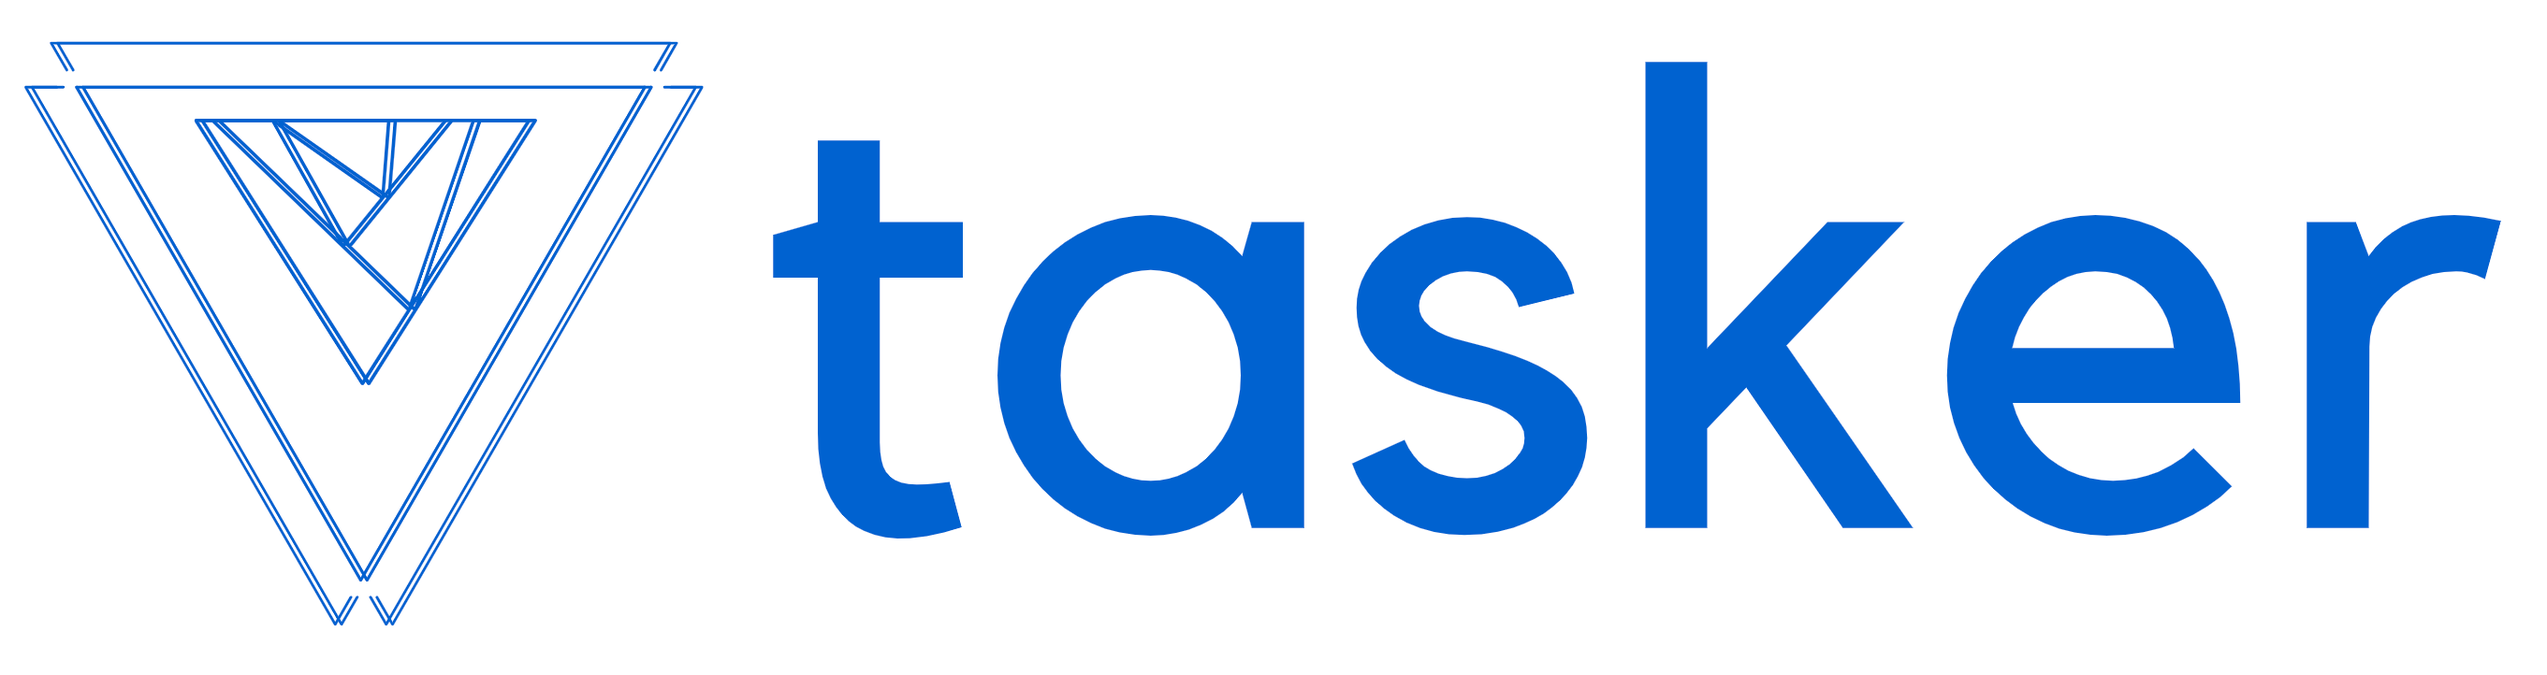
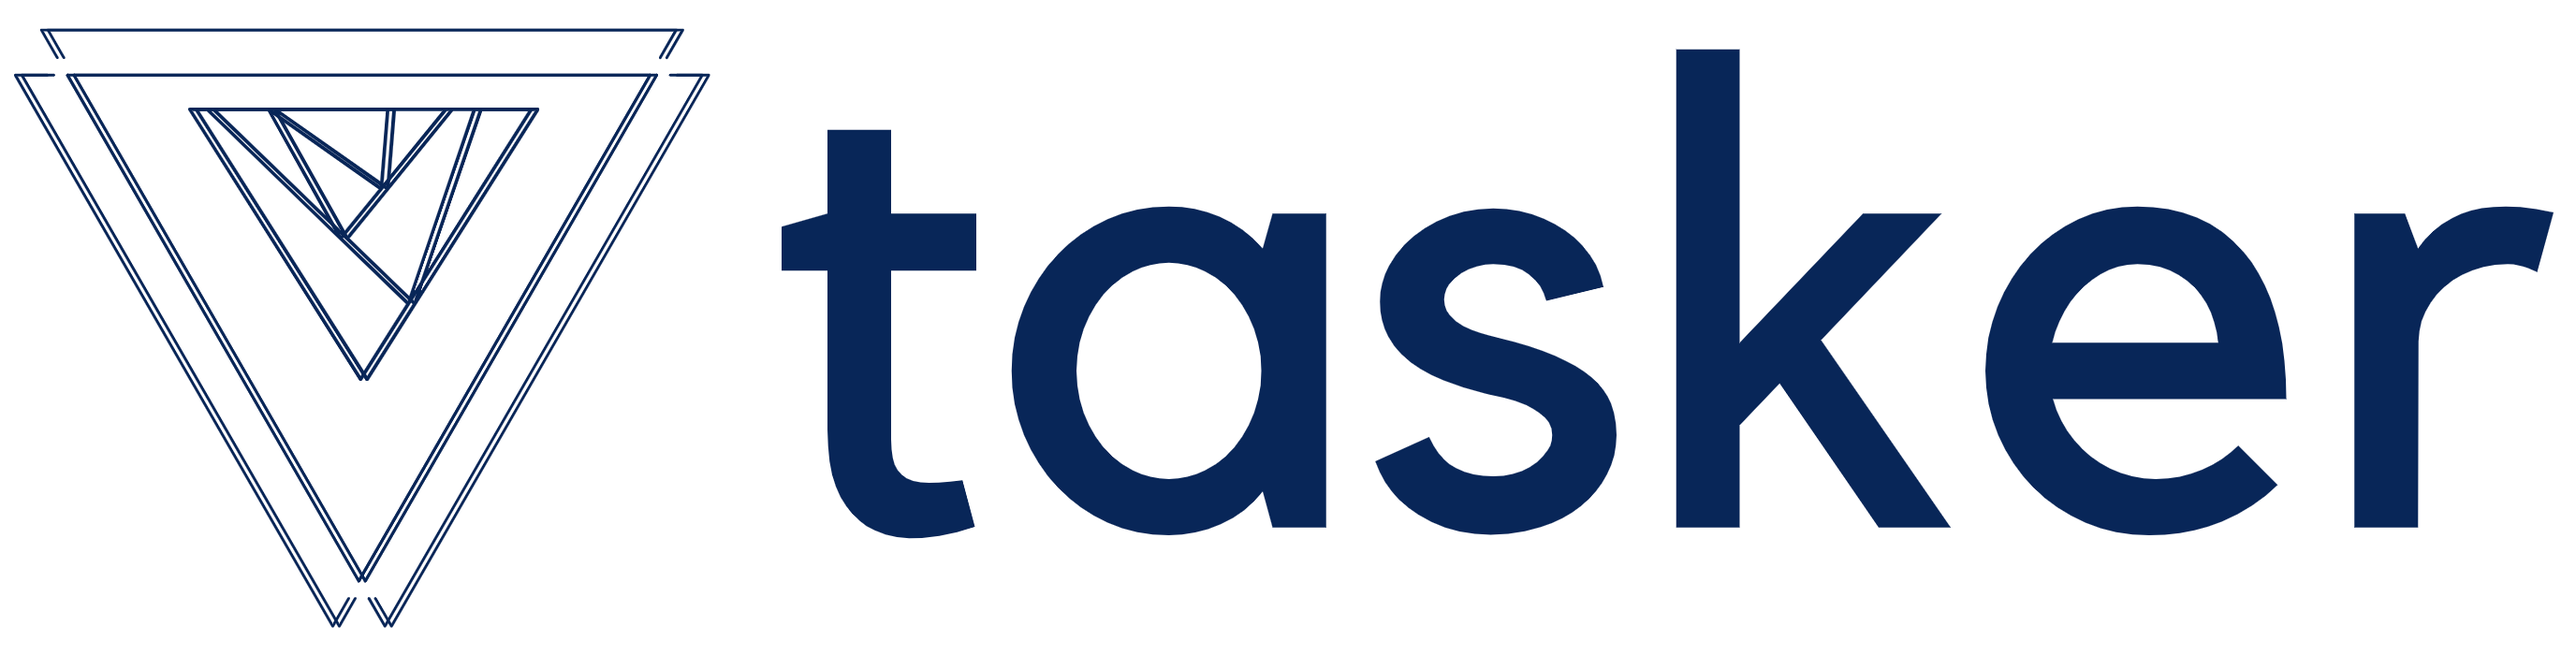
final blue for style and final white line for team member or manager view and more css

Changed region(s): [[0.281, 0.06, 0.9993, 0.84], [0.0, 0.03, 0.281, 0.96]]

diff --git a/src/containers/sidebar.css b/src/containers/sidebar.css
@@ -5,9 +5,9 @@
     height: 40px;
 }
 
-.logoDiv{
-    /* align-self: center; */
-}
+/* .logoDiv{
+   
+} */
 
 
 .sidebar-div{
@@ -18,7 +18,7 @@
     width: 20vw;
     flex-basis: auto;
     /* justify-content: space-evenly; */
-    background-color: #8FD5FF
+    background-color: #0A2659;
 }
 
 .sideBarManager{
@@ -37,7 +37,7 @@
 
 .managerViewDiv{
     margin-top: 27px;
-    background-color: #0F61D4;
+    /* background-color: #2C3E50; */
     padding-top: 20px;
     padding-bottom: 5px;
     display: flex;
@@ -45,11 +45,12 @@
     justify-content: center;
     align-items: center;
     color: white;
+    border-bottom: 1px white solid;
 }
 
 .memberViewDiv{
     margin-top: 60px;
-    background-color: #0F61D4;
+    /* background-color: #0F61D4; */
     padding-top: 20px;
     padding-bottom: 5px;
     display: flex;
@@ -57,6 +58,7 @@
     justify-content: center;
     align-items: center;
     color: white;
+    border-bottom: 1px white solid;
 }
 
 
@@ -67,7 +69,8 @@
     justify-content: center;
     align-items: center;
     padding: 20px;
-    color: #0F61D4;
+    color: white;
+
 }
 
 

diff --git a/src/components/createTask.css b/src/components/createTask.css
@@ -7,18 +7,51 @@
 }
 
 button.btn-light {
-    background-color: #0F61D4;
-    border-color: #0F61D4;
+    background-color: #002b80;
+    border-color: #002b80;
     color: white;
     font-size: medium;
 }
 
 button.btn-light:hover{
-    color:#0F61D4;
+    color:#002b80;
     background-color: white;
+    border: 1px white;
 }
 
 .btn-sm{
     width: 100%;
     height: 50px;
+}
+
+.assignTaskBtn{
+    background-color: #2C3E50;
+    width: 100%;
+    height: 40px;
+    color: white;
+    border-color: white;
+    border: 1px solid;
+    font-weight: bold;
+}
+
+.createTaskBtn{
+    background-color: #0A2659;
+    border: 1px solid;
+    width: 100%;
+    height: 40px;
+    color: white;
+    border-color: white;
+    font-weight: bold;
+}
+
+.assignTaskBtn:hover{
+    color: #2C3E50;
+    background-color: white;
+    border-color: white;
+}
+
+.createTaskBtn:hover{
+    color: #0A2659;
+    background-color: white;
+    border-color: white;
 }

diff --git a/src/containers/TeamMemberViewCont.css b/src/containers/TeamMemberViewCont.css
@@ -14,16 +14,6 @@
 }
 
 
-.nav-link {
-    color: white;
-    /* color: #0F61D4; */
-}
-
-.nav-link:hover{
-    color: #0F61D4;
-    /* color: white; */
-}
-
 .navManager{
     display: flex;
     flex-direction: row-reverse;
@@ -105,7 +95,7 @@
     padding: 0;
     width: 80vw;
     height: 60px;
-    background: #8FD5FF;
+    background: #0A2659;
     padding-right: 10px;
     z-index: 1; 
     font-weight: bold;
@@ -113,7 +103,7 @@
 
 
 .menu{
-    color: #0F61D3;
+    color: #0A2659;
     margin: 10px;
     padding: 5px;
     /* border-radius: 5px, #0F61D3; */
@@ -220,6 +210,16 @@
 }
 
 .afaBell:hover{
-    color: #0F61D4;
+    color: #8FD5FF;
+    /* color: white; */
+}
+
+.nav-link {
+    color: white;
+    /* color: #0F61D4; */
+}
+
+.nav-link:hover{
+    color: #8FD5FF;
     /* color: white; */
 }

diff --git a/src/components/AssignTask.js b/src/components/AssignTask.js
@@ -9,7 +9,7 @@ import {connect} from 'react-redux'
 import Modal from 'react-bootstrap/Modal';
 import './createTask.css'
 import {assigningTask} from '../actions'
-
+import './createTask.css'
 
 
 const AssignTask = (props) => {
@@ -107,9 +107,9 @@ const AssignTask = (props) => {
 
     return(
         <div>
-            <Button size='sm' variant="light" onClick={handleShow}>
+            <button className='assignTaskBtn' onClick={handleShow}>
                 Assign Task 
-            </Button>
+            </button>
         <Modal show={show} onHide={handleClose}>
           <Modal.Header closeButton><Modal.Title>Assign Task</Modal.Title></Modal.Header>
             <Modal.Body>

diff --git a/src/components/home.css b/src/components/home.css
@@ -23,8 +23,8 @@
 
 
 .login-btn{
-    color: #0F61D3;
-    border: 1px #0F61D3;
+    color: #0A2659;
+    border: 1px #0A2659;
     justify-self: center;
     width: 80px;
     margin: 10px;
@@ -33,7 +33,7 @@
 }
 
 .login-btn:hover{
-    background-color: #0F61D3;
+    background-color: #0A2659;
     color: white;
 }
 
@@ -52,11 +52,11 @@ h1{
     justify-items: center;
     flex-direction: column;
     align-items: center;
+    border: 2px #0A2659 solid;
 }
 
 .homeLogo{
-    
     height: 100px;
     width: 400px;
-    margin-bottom: 40px;
+    margin-bottom: 70px;
 }

diff --git a/src/components/CreateTask.js b/src/components/CreateTask.js
@@ -94,9 +94,9 @@ const CreateTask = (props) => {
 
     return(
         <div>
-            <Button size='sm' variant="light" onClick={handleShow}>
+            <button className='createTaskBtn' onClick={handleShow}>
                 New Task 
-            </Button>
+            </button>
   
         <Modal show={show} onHide={handleClose}>
           <Modal.Header closeButton>
